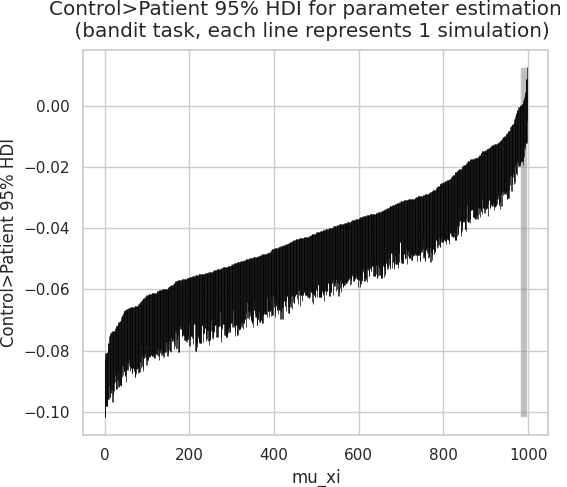
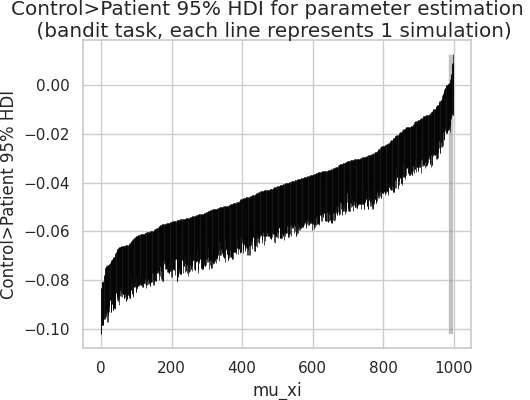
modified plots

diff --git a/compare_hdi.py b/compare_hdi.py
@@ -220,23 +220,33 @@ def plot_violin_params(csv_params, model_name, n_perm):
     import seaborn as sns
     sns.set_theme(style="whitegrid")
     df = pd.read_csv(csv_params)
-    param_ls = np.unique(df['param'])
+    df['parameter'] = df['param'].str.slice(3,)
+    param_ls = np.unique(df['parameter'])
     n_param = len(param_ls)
-    fig, ax = plt.subplots(1,n_param,figsize=(7,5))
+    if model_name=='motoradapt':
+        fig, ax = plt.subplots(1,n_param,figsize=(3,3.5))
+        leg_box = (-1,-0.1)
+    else:  
+        fig, ax = plt.subplots(1,n_param,figsize=(5,3.5))
+        leg_box = (-2, -0.1)
     for n in range(n_param):
-        g= sns.violinplot(data=df[df['param']==param_ls[n]], x="param", y="param_mean", hue="group", split=True, inner="quart", linewidth=1,palette={"patient": "b", "control": ".85"}, ax=ax[n])
+        g= sns.violinplot(data=df[df['parameter']==param_ls[n]], x="parameter", y="param_mean", hue="group", split=True, inner="quart", linewidth=1,palette={"patient": "b", "control": ".85"}, ax=ax[n])
         sns.despine(left=True)
-        if n>0:
-            g.set(ylabel=None)
+        g.set(ylabel=None)
         ax[n].get_legend().remove()
+        ax[n].tick_params(axis='y', labelsize=8) 
+        if model_name=='motoradapt' and n==2:
+            g.set(yticklabels=[])
         g.set(xlabel=None)
-    plt.legend(bbox_to_anchor=(1.05, 1), loc=2, borderaxespad=0.)
-    if model_name == 'bandit':
-        plt.suptitle(f'Simulated data fitted model parameter mean distribution \n ({model_name} task, reward+punishment lapse model)')
-    elif model_name == 'generalise':
-        plt.suptitle(f'Simulated data fitted model parameter mean distribution \n ({model_name} task, perceptual+value generalisation model)')
-    elif model_name == 'motoradapt':
-        plt.suptitle(f'Simulated data fitted model parameter mean distribution \n (moto adaptation task, single state space model)')
+    # plt.legend(bbox_to_anchor=(1.05, 1), loc=2, borderaxespad=0.)
+    plt.legend(loc='upper center', bbox_to_anchor=leg_box,
+          fancybox=True, shadow=True, ncol=2)
+    # if model_name == 'bandit':
+    #     # plt.suptitle(f'Simulated data fitted model parameter mean distribution \n ({model_name} task, reward+punishment lapse model)')
+    # elif model_name == 'generalise':
+    #     # plt.suptitle(f'Simulated data fitted model parameter mean distribution \n ({model_name} task, perceptual+value generalisation model)')
+    # elif model_name == 'motoradapt':
+    #     # plt.suptitle(f'Simulated data fitted model parameter mean distribution \n (moto adaptation task, single state space model)')
     # save fig
     save_dir = './figs/'+model_name+'/'
     if not os.path.isdir(save_dir):
@@ -251,7 +261,7 @@ def plot_hdi_permutations(csv_params, model_name, n_perm):
     df = pd.read_csv(csv_params)
     param_ls = np.unique(df['param'])
     for param in param_ls:
-        fig, ax = plt.subplots(figsize=(6,5))
+        fig, ax = plt.subplots(figsize=(5,4))
         df_tmp = df[(df['param']==param) & (df['group']=='control')]
         df_tmp_sort = df_tmp.sort_values(by=['hdi_high'],ascending=True)
         fill_indicator = sum(df_tmp_sort['hdi_high']>0)<sum(df_tmp_sort['hdi_high']<=0)
@@ -290,6 +300,6 @@ if __name__ == "__main__":
     else:
         print('model must be bandit or generalise.')
     n_perm = 1000
-    comp_hdi_mean(model_name, param_ls, sort=False, draw_idx=30, draws=n_perm)
+    # comp_hdi_mean(model_name, param_ls, sort=False, draw_idx=30, draws=n_perm)
     plot_violin_params(f'./figs/{model_name}/params.csv', model_name, n_perm=n_perm)
-    plot_hdi_permutations(f'./figs/{model_name}/params.csv', model_name, n_perm)
+    # plot_hdi_permutations(f'./figs/{model_name}/params.csv', model_name, n_perm)
